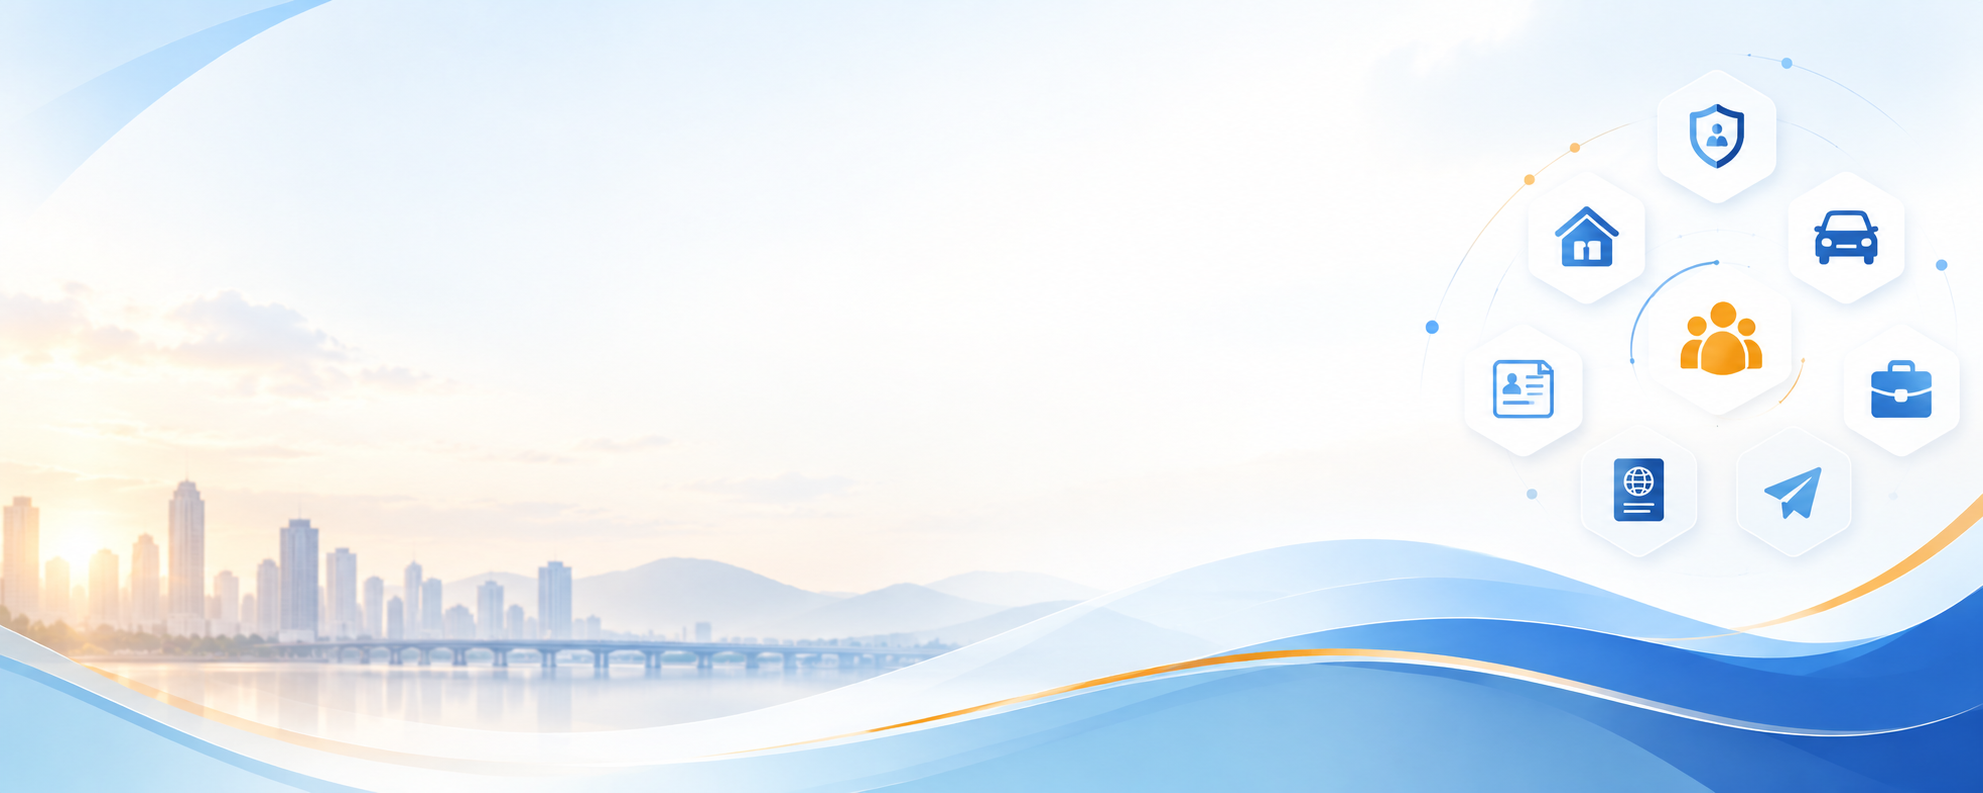
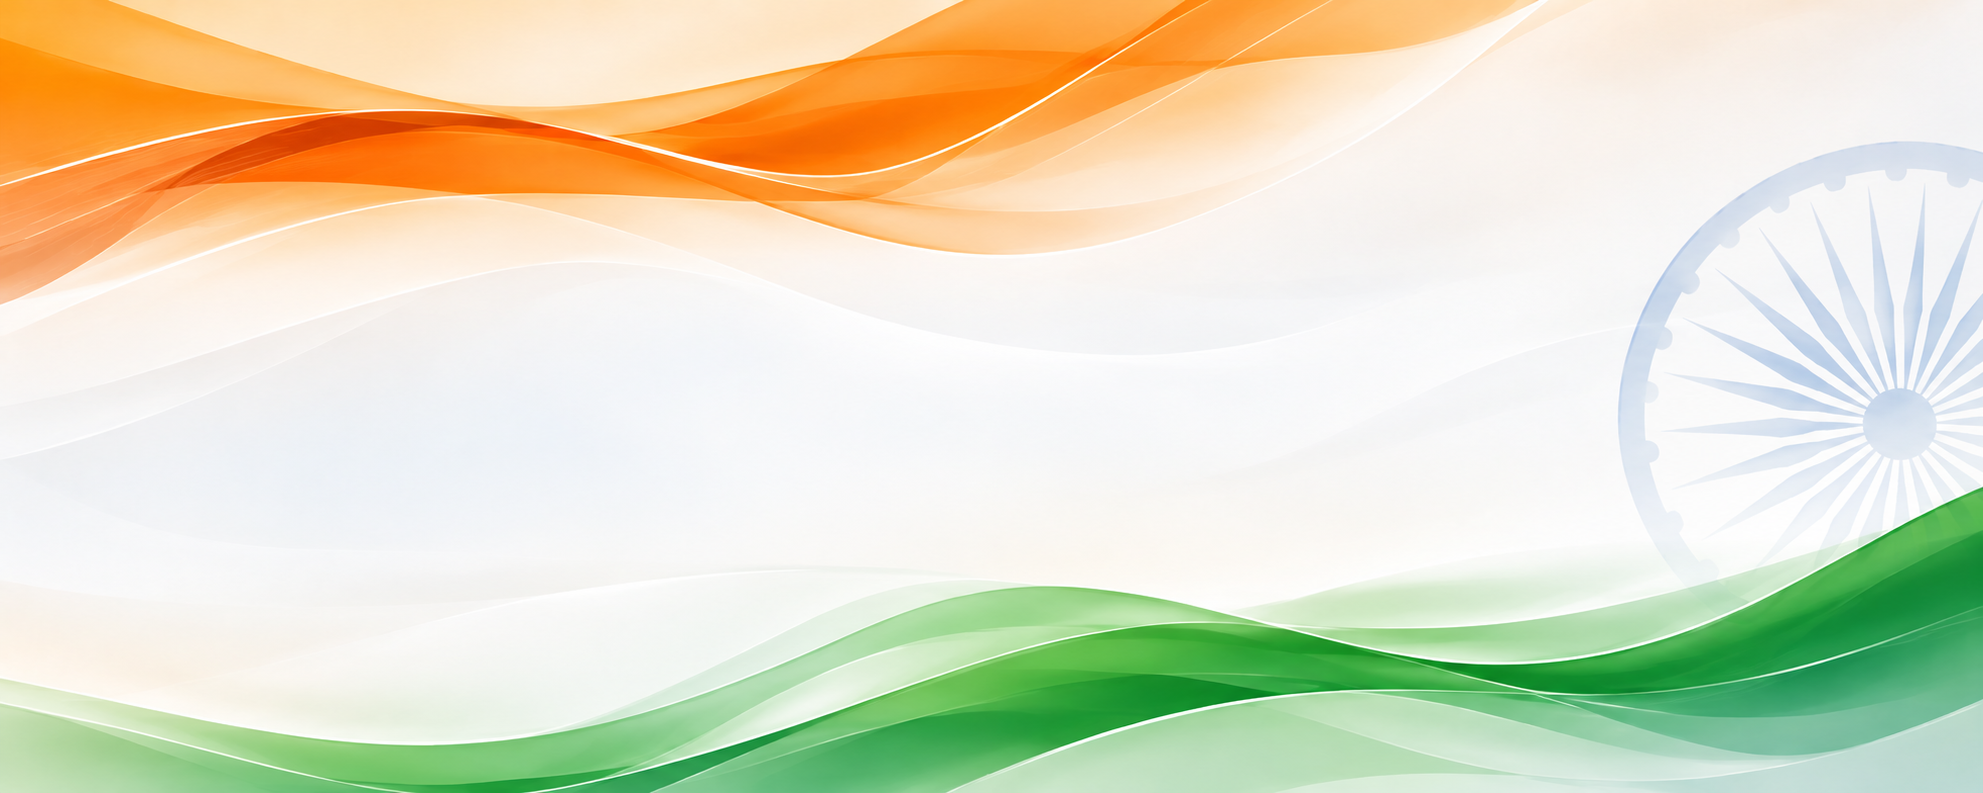
changed hero bg img to indian flag

diff --git a/frontend/src/App.css b/frontend/src/App.css
@@ -528,7 +528,7 @@
 .hero-title {
   font-size: 2.2rem;
   font-weight: 800;
-  color: #FFFFFF;
+  color: #0A2540;
   line-height: 1.12;
   letter-spacing: -0.03em;
   margin-bottom: 14px;
@@ -548,28 +548,28 @@
 
 .hero-title .primary-title {
   display: block;
-  background: linear-gradient(135deg, #FFFFFF 40%, #E0F2FE 75%, #93C5FD 100%);
+  background: linear-gradient(135deg, #0A2540 0%, #0F3A75 60%, #0284C7 100%);
   -webkit-background-clip: text;
   -webkit-text-fill-color: transparent;
-  filter: drop-shadow(0 2px 14px rgba(15, 123, 224, 0.25));
+  filter: drop-shadow(0 2px 8px rgba(15, 123, 224, 0.12));
 }
 
 .hero-title .secondary-title {
   display: block;
   font-size: 0.62em;
-  color: #FBBF24;
-  -webkit-text-fill-color: #FBBF24;
+  color: #C2410C;
+  -webkit-text-fill-color: #C2410C;
   font-family: var(--font-te);
   margin-top: 6px;
   font-weight: 700;
   letter-spacing: 0.01em;
-  filter: drop-shadow(0 2px 10px rgba(245, 158, 11, 0.3));
+  filter: drop-shadow(0 1px 4px rgba(194, 65, 12, 0.2));
 }
 
 .hero-tagline {
   font-size: 1.15rem;
   font-weight: 600;
-  color: rgba(255, 255, 255, 0.92);
+  color: #0F2942;
   line-height: 1.4;
   margin-bottom: 16px;
 }
@@ -582,13 +582,13 @@
 
 .hero-tagline .tagline-primary {
   display: inline-block;
-  color: #F8FAFC;
+  color: #0F2942;
 }
 
 .bilingual-sub-white {
   display: block;
   font-size: 0.82em;
-  color: rgba(255, 255, 255, 0.72);
+  color: #475569;
   font-family: var(--font-te);
   margin-top: 4px;
   font-weight: 400;
@@ -596,7 +596,7 @@
 
 .hero-desc {
   font-size: 0.95rem;
-  color: rgba(226, 232, 240, 0.82);
+  color: #334155;
   line-height: 1.68;
   margin-bottom: 24px;
   max-width: 530px;
@@ -628,21 +628,21 @@
   display: inline-flex;
   align-items: center;
   gap: 7px;
-  background: rgba(255, 255, 255, 0.08);
-  border: 1px solid rgba(255, 255, 255, 0.16);
+  background: rgba(255, 255, 255, 0.75);
+  border: 1px solid rgba(15, 23, 42, 0.12);
   padding: 6px 14px;
   border-radius: var(--radius-full);
   font-size: 0.82rem;
   font-weight: 600;
-  color: rgba(255, 255, 255, 0.92);
+  color: #1E293B;
   backdrop-filter: blur(10px);
   -webkit-backdrop-filter: blur(10px);
   transition: all 0.22s ease;
 }
 
 .trust-chip:hover {
-  background: rgba(255, 255, 255, 0.14);
-  border-color: rgba(255, 255, 255, 0.32);
+  background: rgba(255, 255, 255, 0.95);
+  border-color: rgba(15, 123, 224, 0.35);
   transform: translateY(-2px);
 }
 
@@ -712,9 +712,9 @@
   align-items: center;
   gap: 10px;
   padding: 13px 26px;
-  background: rgba(255, 255, 255, 0.06);
-  color: #FFFFFF;
-  border: 1.5px solid rgba(255, 255, 255, 0.3);
+  background: rgba(255, 255, 255, 0.8);
+  color: #0F3A75;
+  border: 1.5px solid rgba(15, 123, 224, 0.35);
   border-radius: var(--radius-full);
   font-size: 0.96rem;
   font-weight: 600;
@@ -725,10 +725,11 @@
 }
 
 .btn-hero-outline:hover {
-  background: rgba(255, 255, 255, 0.15);
-  border-color: rgba(255, 255, 255, 0.7);
+  background: #FFFFFF;
+  border-color: #0F7BE0;
+  color: #0A2540;
   transform: translateY(-2.5px);
-  box-shadow: 0 8px 24px rgba(0, 0, 0, 0.2);
+  box-shadow: 0 8px 24px rgba(15, 123, 224, 0.15);
 }
 
 .btn-down-icon {
@@ -843,7 +844,7 @@
 .csp-status-text {
   font-size: 0.72rem;
   font-weight: 600;
-  color: #6EE7B7;
+  color: #047857;
   letter-spacing: 0.2px;
 }
 
@@ -895,7 +896,7 @@
 .csp-designation {
   font-size: 0.72rem;
   font-weight: 600;
-  color: #93C5FD;
+  color: #0284C7;
   text-transform: uppercase;
   letter-spacing: 0.5px;
   margin-bottom: 2px;
@@ -904,7 +905,7 @@
 .csp-person-name {
   font-size: 1.22rem;
   font-weight: 700;
-  color: #FFFFFF;
+  color: #0A2540;
   line-height: 1.25;
   margin: 0 0 5px 0;
   letter-spacing: -0.01em;
@@ -915,7 +916,7 @@
   align-items: flex-start;
   gap: 6px;
   font-size: 0.82rem;
-  color: rgba(226, 232, 240, 0.85);
+  color: #475569;
   line-height: 1.35;
 }
 
@@ -939,7 +940,7 @@
   display: block;
   font-size: 0.72rem;
   font-weight: 700;
-  color: rgba(255, 255, 255, 0.6);
+  color: #64748B;
   text-transform: uppercase;
   letter-spacing: 0.8px;
   margin-bottom: 10px;
@@ -1022,7 +1023,7 @@
 .csp-btn-label {
   font-size: 0.68rem;
   font-weight: 600;
-  color: rgba(255, 255, 255, 0.65);
+  color: #64748B;
   text-transform: uppercase;
   letter-spacing: 0.4px;
 }
@@ -1030,7 +1031,7 @@
 .csp-btn-val {
   font-size: 0.82rem;
   font-weight: 700;
-  color: #FFFFFF;
+  color: #0F172A;
   white-space: nowrap;
   overflow: hidden;
   text-overflow: ellipsis;
@@ -1042,9 +1043,9 @@
   align-items: center;
   justify-content: space-between;
   padding-top: 14px;
-  border-top: 1px solid rgba(255, 255, 255, 0.08);
+  border-top: 1px solid rgba(15, 23, 42, 0.08);
   font-size: 0.72rem;
-  color: rgba(255, 255, 255, 0.7);
+  color: #334155;
   font-weight: 600;
   gap: 6px;
   flex-wrap: wrap;

diff --git a/frontend/src/components/Hero.jsx b/frontend/src/components/Hero.jsx
@@ -13,10 +13,10 @@ export default function Hero({ lang, t, onOpenLogin }) {
       style={{ backgroundImage: `url(${heroBg})` }}
     >
       {/* Visual Ambiance & Glow Overlays */}
-      <div className="hero-overlay"></div>
+      {/* <div className="hero-overlay"></div>
       <div className="hero-mesh-grid"></div>
       <div className="hero-glow-orb hero-glow-1"></div>
-      <div className="hero-glow-orb hero-glow-2"></div>
+      <div className="hero-glow-orb hero-glow-2"></div> */}
 
       <div className="container hero-container">
         <div className="hero-grid">
@@ -37,9 +37,9 @@ export default function Hero({ lang, t, onOpenLogin }) {
                   <span className="secondary-title">ఇండియన్ కమ్యూనికేషన్</span>
                 </>
               ) : isTelugu ? (
-                'ఇండియన్ కమ్యూనికేషన్'
+                <span className="primary-title">ఇండియన్ కమ్యూనికేషన్</span>
               ) : (
-                'Indian Communication'
+                <span className="primary-title">Indian Communication</span>
               )}
             </h1>
 
